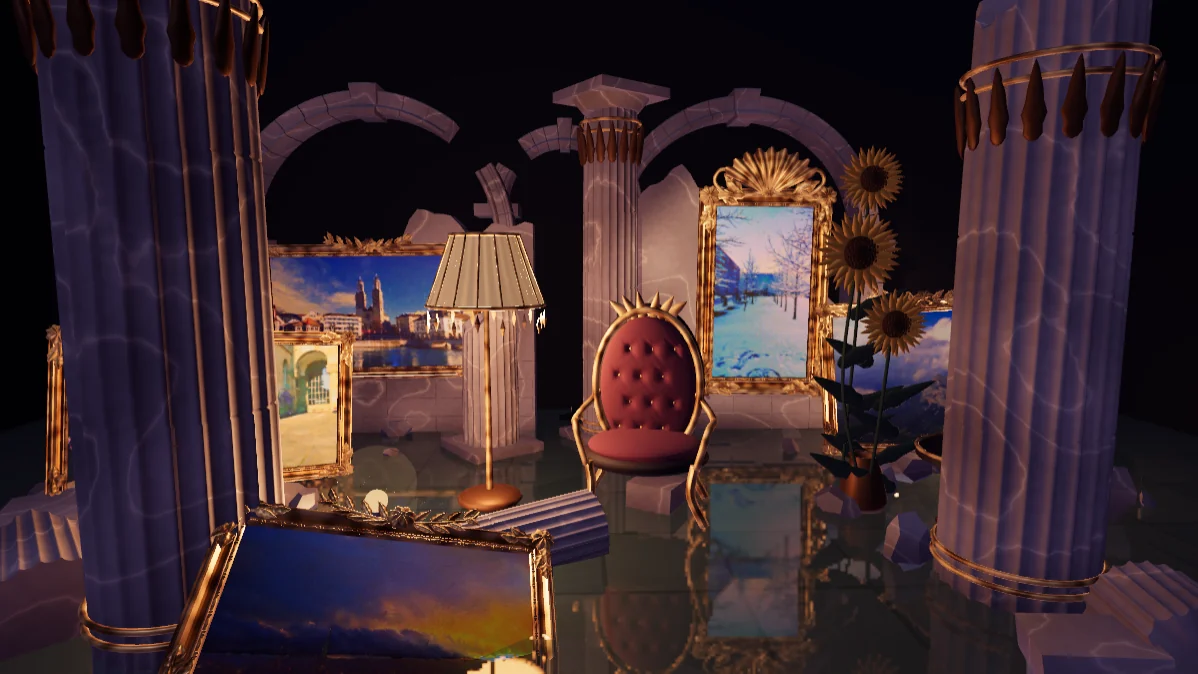
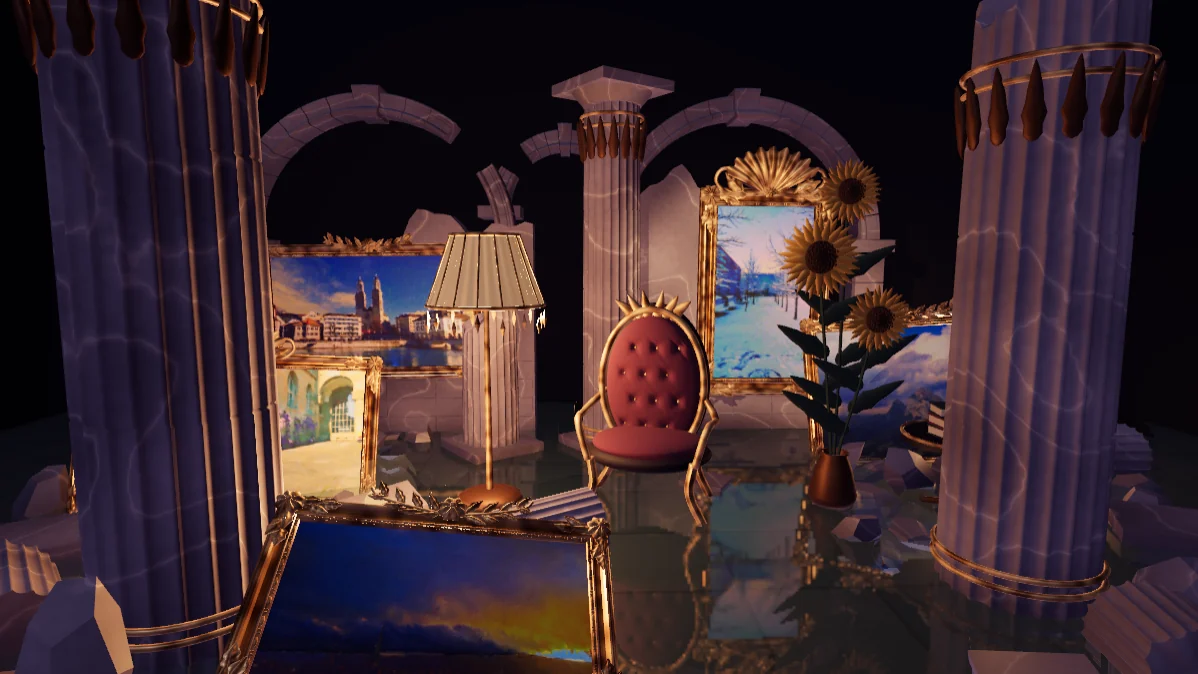
Separate intersecting objects in the Painted Room

diff --git a/misc/museum/room/details.js b/misc/museum/room/details.js
@@ -267,7 +267,7 @@ export function pleatedShade(){
   return g;
 }
 
-export function dressRoom({scene,stoneMat,frameMat:gold,woodMat:wood}){
+export function dressRoom({scene,stoneMat,frameMat:gold,woodMat:wood,floorY}){
   const c=new Carving();
   const bronze=new THREE.MeshStandardNodeMaterial({color:0x694832,metalness:0.7,roughness:0.48});
   const velvet=new THREE.MeshStandardNodeMaterial({color:0x643340,roughness:0.92});
@@ -278,7 +278,7 @@ export function dressRoom({scene,stoneMat,frameMat:gold,woodMat:wood}){
 
   // Layered arcades recede behind the surviving wall fragments. Every voussoir is
   // a closed, bevelled wedge; a missing block is a deliberate break in the arch.
-  for(const [x,z,r,spring,missing] of [[-4.1,-7.85,2.3,3.5,3],[2.9,-8.0,2.3,3.5,-1],[-0.5,-8.5,1.15,4.2,12]]){
+  for(const [x,z,r,spring,missing] of [[-4.1,-8.00,2.3,3.5,3],[2.9,-8.0,2.3,3.5,-1],[-0.5,-8.99,1.15,4.2,12]]){
     for(let i=0;i<17;i++){
       if(i===missing||i===missing+1&&missing>=0) continue;
       const key=i===8, inset=0.004;
@@ -302,7 +302,7 @@ export function dressRoom({scene,stoneMat,frameMat:gold,woodMat:wood}){
     }
   }
   // Bronze collars and an acanthus crown give the foreground shafts scale.
-  for(const [x,z,r,h] of [[-3.60,-0.70,0.74,5.0],[3.95,-1.10,0.68,4.6],[0.30,-6.40,0.48,5.18]]){
+  for(const [x,z,r,h] of [[-3.60,-0.70,0.74,5.0],[3.95,-1.10,0.68,4.6],[0.30,-5.96,0.48,5.18]]){
     for(const y of [0.22,0.35,h,h+0.18]) c.add(new THREE.TorusGeometry(r*1.035,0.028,6,48),gold,[x,y,z],[Math.PI/2,0,0]);
     for(let i=0;i<16;i++){
       const a=i/16*Math.PI*2;
@@ -312,17 +312,39 @@ export function dressRoom({scene,stoneMat,frameMat:gold,woodMat:wood}){
 
   // Fallen cornice stones and smaller chips; deterministic placement, concentrated
   // at the feet of the ruins so the central water still has room for reflections.
+  // The loose chips have fixed sites between the columns and exhibits. Seat
+  // each stone on its lowest rotated vertex on the floor beneath the water.
+  const chipSites=[
+    [-4.59,-4.17],[5.93,-0.10],[-5.27,0.44],[5.76,-6.51],[-3.28,-5.54],[6.26,-5.97],
+    [-6.83,-6.09],[3.55,-4.48],[-5.18,-6.25],[6.32,-6.63],[-3.81,-5.85],[5.03,-6.41],
+    [-5.32,-1.60],[4.87,-3.41],[-3.73,-3.05],[6.88,-0.40],[-3.98,-4.58],[7.71,-1.15],
+    [-7.18,-2.58],[5.21,-0.68],[-7.32,-1.81],[3.62,-2.31],[-4.89,-2.51],[5.35,-5.55],
+    [-4.47,-6.09],[3.08,-2.75],[-3.74,0.49],[2.97,-1.63],[-3.60,-1.86],[5.83,-5.76],
+    [-4.69,-1.29],[7.51,-3.72],[-6.39,-3.40],[4.30,-5.99],[-4.49,0.19],[4.90,-5.45],
+    [-3.03,-6.34],[7.03,-2.98],[-6.16,-1.06],[5.16,0.07],[-4.34,-2.08],[5.00,-2.34],
+    [-4.88,-5.50],[3.68,-2.99],[-6.94,-1.16],[4.13,-4.66],[-6.21,-6.27],[5.45,-2.74],
+    [-6.15,-3.75],[5.15,-4.26],[-5.84,-3.48],[6.55,0.05],[-4.19,-5.22],[6.48,-0.71],
+    [-3.78,-6.51],[2.92,-2.29],[-3.37,-3.41],[4.41,-3.93],[-4.38,-2.86],[7.10,-0.67],
+    [-6.11,-0.16],[3.60,-3.66],[-3.74,-2.60],[3.25,-5.51],[-7.06,-3.37]
+  ];
   let seed=917;
   const rand=()=>{seed=(Math.imul(seed,1664525)+1013904223)>>>0;return seed/4294967296;};
-  for(let i=0;i<65;i++){
-    const side=i%2?1:-1, x=side*(2.9+rand()*4.3),z=-6.9+rand()*6.5;
-    const size=0.08+rand()*0.30;
-    c.add(new THREE.DodecahedronGeometry(size,0),stoneMat,[x,-0.035+size*0.4,z],
-      [rand(),rand()*6,rand()],[1+rand(),0.65,1]);
+  for(const [x,z] of chipSites){
+    const stone=new THREE.DodecahedronGeometry(0.08+rand()*0.30,0);
+    const rotation=new THREE.Euler(rand(),rand()*6,rand());
+    stone.scale(1+rand(),0.65,1);
+    stone.applyMatrix4(new THREE.Matrix4().makeRotationFromEuler(rotation));
+    stone.computeBoundingBox();
+    c.add(stone,stoneMat,[x,floorY-stone.boundingBox.min.y,z]);
   }
-  for(const [x,z,ry] of [[-5.8,-2.6,0.4],[5.8,-3.2,-0.6]]){
-    for(let j=0;j<3;j++) c.add(box,stoneMat,[x,0.1+j*0.13,z],
-      [0.08,ry,0.05],[1.5+j*0.12,0.16,0.6+j*0.13]);
+  for(const [x,z,ry] of [[-6.03,-2.17,0.29],[6.73,-1.90,-0.48]]){
+    const tilt=new THREE.Euler(0.08,ry,0.05);
+    const up=new THREE.Vector3(0,1,0).applyEuler(tilt);
+    for(let j=0;j<3;j++){
+      const lift=j*0.16;
+      c.add(box,stoneMat,[x+up.x*lift,-0.19+up.y*lift,z+up.z*lift],
+        [tilt.x,tilt.y,tilt.z],[1.5+j*0.12,0.16,0.6+j*0.13]);
+    }
   }
 
   // An empty salon chair, slightly off-axis beneath the paintings: plum velvet,
@@ -347,7 +369,7 @@ export function dressRoom({scene,stoneMat,frameMat:gold,woodMat:wood}){
     const z=0.14+0.16*Math.sqrt(1-(x/0.61)**2-(y/0.90)**2)-tuftDepth(x,y);
     cc.add(sphere,gold,[x,1.52+y,z+0.014],[0,0,0],[0.021,0.021,0.012]);
   }
-  chair.add(cc.finish());chair.position.set(0.65,0,-3.55);chair.rotation.y=-0.20;scene.add(chair);
+  chair.add(cc.finish());chair.position.set(0.74,0,-3.65);chair.rotation.y=-0.29;scene.add(chair);
 
   // A tall shaded lamp with ribs and crystal fringe. The practical casts warm
   // light onto the chair and flowers; the visitor's overhead beam remains aimable.
@@ -369,12 +391,20 @@ export function dressRoom({scene,stoneMat,frameMat:gold,woodMat:wood}){
 
   // Sunflowers lean into the light on the right: two irregular petal courses,
   // raised seed heads and broad green leaves, with all faces modelled.
-  for(const [x,z,height,r,lean] of [[3.10,-3.0,3.2,0.39,-0.22],[3.55,-2.95,2.35,0.32,0.22],[3.35,-3.3,4.10,0.31,0.20]]){
-    c.add(closedTube([[x-lean,0.1,z],[x-0.15,height*0.5,z+0.1],[x,height,z]],0.022,22),green);
+  const vaseX=3.02,vaseZ=-3.24;
+  for(const [dx,dz,height,r] of [[-0.32,0.05,3.15,0.39],[0.42,0.10,2.39,0.32],[0.10,-0.15,3.96,0.31]]){
+    const x=vaseX+dx,z=vaseZ+dz;
+    // Keep each stalk inside the narrow mouth, then let it bend towards its flower.
+    const stemPoints=[[vaseX+dx*0.10,0.55,vaseZ+dz*0.10],[vaseX+dx*0.16,0.75,vaseZ+dz*0.16],
+      [vaseX+dx*0.55,height*0.60,vaseZ+dz*0.55],[x,height,z]];
+    const stem=new THREE.CatmullRomCurve3(stemPoints.map(p=>new THREE.Vector3(...p)));
+    c.add(closedTube(stemPoints,0.022,22),green);
     for(let j=0;j<4;j++){
-      const sx=j%2?1:-1;
-      c.add(leaf,green,[x+sx*0.18,height*(0.18+j*0.15),z],
-        [0.25,0,-sx*1.05],[0.16,0.40,0.10]);
+      const sx=j%2?1:-1, join=stem.getPointAt(0.22+j*0.16);
+      const tilt=-sx*1.05;
+      // The leaf mesh is centred. Plant its lower tip on the curved stalk.
+      c.add(leaf,green,[join.x-0.34*Math.sin(tilt),join.y+0.34*Math.cos(tilt),join.z],
+        [0,0,tilt],[0.16,0.40,0.10]);
     }
     c.add(sphere,seeds,[x,height,z+0.04],[0,0,0],[r*0.54,r*0.54,0.12]);
     for(let ring=0;ring<2;ring++) for(let j=0;j<17;j++){
@@ -389,10 +419,10 @@ export function dressRoom({scene,stoneMat,frameMat:gold,woodMat:wood}){
     }
   }
   const vaseSection=[[0,0],[0.25,0],[0.30,0.15],[0.23,0.48],[0.16,0.66],[0.19,0.70],[0.15,0.70],[0.12,0.61],[0.19,0.45],[0.25,0.15],[0,0.06]];
-  c.add(new THREE.LatheGeometry(vaseSection.map(p=>new THREE.Vector2(...p)),32),bronze,[3.35,-0.03,-3.1]);
+  c.add(new THREE.LatheGeometry(vaseSection.map(p=>new THREE.Vector2(...p)),32),bronze,[vaseX,-0.03,vaseZ]);
 
   // Books and a cup survive on a low round table near the water.
-  const tx=4.3,tz=-2.1;
+  const tx=4.46,tz=-2.76;
   c.add(new THREE.CylinderGeometry(0.72,0.74,0.09,40),wood,[tx,0.96,tz]);
   c.add(new THREE.TorusGeometry(0.73,0.023,8,40),gold,[tx,1.005,tz],[Math.PI/2,0,0]);
   c.add(new THREE.CylinderGeometry(0.055,0.09,0.95,12),bronze,[tx,0.46,tz]);

diff --git a/misc/museum/room/index.html b/misc/museum/room/index.html
@@ -240,15 +240,15 @@ const reduced=matchMedia('(prefers-reduced-motion: reduce)');
 // The catalogue supplies the titles used by the live wall label.
 const WORKS=[
   // Two still hanging on what is left of the walls...
-  {slug:'grossmunster', crest:'spray', ar:1.7778, h:1.95, pos:[-3.85,2.20,-6.79], rot:[0,0.012,0.012]},
-  {slug:'snow', crest:'shell',         ar:0.5625, h:3.05, pos:[ 3.05,2.52,-6.80], rot:[0,-0.03,-0.008]},
-  // ...one propped on a fallen drum and leaning back against a column...
-  {slug:'ridge', crest:'spray',        ar:1.3333, h:2.05, pos:[ 5.15,1.30,-4.95], rot:[-0.15,-0.55,0.03]},
+  {slug:'grossmunster', crest:'spray', ar:1.7778, h:1.95, pos:[-3.85,2.20,-6.78], rot:[0,0,0.012]},
+  {slug:'snow', crest:'shell',         ar:0.5625, h:3.05, pos:[ 3.05,2.52,-6.735], rot:[0,0,-0.008]},
+  // ...one leaning back beside a fallen drum...
+  {slug:'ridge', crest:'spray',        ar:1.3333, h:2.05, pos:[4.99,1.053,-5.12], rot:[-0.200,-0.380,0.035]},
   // ...one standing in the water against the left ruin...
-  {slug:'wisteria', crest:'shell',     ar:1.7778, h:1.72, pos:[-5.05,1.15,-3.85], rot:[-0.12,0.62,-0.02]},
+  {slug:'wisteria', crest:'shell',     ar:1.7778, h:1.72, pos:[-4.70,0.872,-3.65], rot:[-0.180,0.380,-0.035]},
   // ...and one that has gone over, its lower edge under the surface. The reference painting has
   // exactly this: an ornate frame half in the flood, catching the lamp along its top moulding.
-  {slug:'storm', crest:'spray',        ar:1.7778, h:1.35, pos:[-1.80,0.33,-0.15], rot:[-1.06,0.34,0.10]},
+  {slug:'storm', crest:'spray',        ar:1.7778, h:1.35, pos:[-1.36,0.426,-0.04], rot:[-1.000,0.220,0.035]},
 ];
 
 // ---------------------------------------------------------------------------------------------
@@ -258,7 +258,7 @@ const WORKS=[
 // the other mirrors a scene -- so there is a box. But it is large, unlit and nearly black: what the
 // visitor reads as "the room" is the ruin standing in the water, and everything past it is meant to
 // fall away into the dark, which is how the reference painting handles its own background.
-const ROOM_W=11.0, ROOM_D=[-9.0,5.0], ROOM_H=9.0;
+const ROOM_W=11.0, ROOM_D=[-9.65,5.0], ROOM_H=9.0;
 const WATER_Y=0, WATER_DEPTH=0.35, FLOOR_Y=WATER_Y-WATER_DEPTH;
 // ---------------------------------------------------------------------------------------------
 // THE LAMP. One light, as asked for, and it is a SPOTLIGHT rather than a bulb for three reasons
@@ -315,7 +315,7 @@ const LANT_COL=0xffb877;
 // the room -- which is the only reason there is anything for the volumetric pass to integrate. So
 // clicking sets the target, not the position. The opening aim is the centre picture, because a room
 // that opens with nothing lit is a room that opens black.
-const HOME_AIM=new THREE.Vector3(3.05, 2.52, -6.80);   // the tall picture on the right-hand wall fragment
+const HOME_AIM=new THREE.Vector3(3.05, 2.52, -6.735);   // the tall picture on the right-hand wall fragment
 const AIM_S=2.6;            // how fast the beam swings to a new aim, in units of "per second, e-fold"
 const WANDER=0.085;         // how far the aim breathes around where it was put, in metres
 const WANDER_S=0.085;       // and how slowly. A hung lamp breathes; it does not patrol.
@@ -573,10 +573,10 @@ const COLUMNS=[
   [-3.60,-0.70, 0.74, 6.75, 1.7, 0.50, false, false],   // 37°
   [ 3.95,-1.10, 0.68, 5.80, 5.3, 0.70, false, false],   // 38°
   // …then the colonnade proper, receding and overlapping.
-  [-5.60,-4.40, 0.56, 4.40, 4.1, 0.80, false, true ],   // 34°
+  [-5.60,-4.72, 0.56, 4.40, 4.1, 0.80, false, true ],   // 34°
   [-1.70,-5.80, 0.46, 2.15, 2.2, 1.00, false, true ],   // 10°
-  [ 0.30,-6.40, 0.48, 5.40, 0.6, 0.15, true,  true ],   // 11°  the one that survived, with its capital
-  [ 5.90,-3.70, 0.60, 2.30, 2.9, 1.00, false, false],   // 37°
+  [ 0.30,-5.96, 0.48, 5.40, 0.6, 0.15, true,  true ],   // 11°  the one that survived, with its capital
+  [ 6.14,-3.58, 0.60, 2.30, 2.9, 1.00, false, false],   // 37°
   [ 7.30,-6.60, 0.48, 3.80, 3.4, 0.80, false, true ],   // 35°
 ];
 for(const [x,z,R,H,seed,brk,cap,pl] of COLUMNS){
@@ -595,10 +595,10 @@ for(const [x,z,R,H,seed,brk,cap,pl] of COLUMNS){
 // so the surface cuts them, which is the reference painting's whole trick for selling depth.
 const FALLEN=[
   // [x, y, z, rotX, rotY, rotZ, radius, length, seed, break tilt]
-  [-0.10,0.20,-2.15, 0.06, 0.42, 1.62, 0.40, 2.65, 2.2, 0.65],
-  [-4.55,0.30,-0.35, 0.10,-0.85, 1.53, 0.46, 0.85, 6.1, 0.90],
-  [ 4.35,0.26,-0.10,-0.05, 1.30, 1.58, 0.44, 0.80, 3.8, 0.55],
-  [ 7.10,0.28,-4.40, 0.04, 0.25, 1.49, 0.48, 0.95, 1.1, 0.80],
+  [-0.10,0.223,-2.15, 0.06, 0.42, 1.62, 0.40, 2.65, 2.2, 0.65],
+  [-4.83,0.106,-0.20, 0.10,-0.85, 1.53, 0.46, 0.85, 6.1, 0.90],
+  [ 4.35,0.090,-0.10,-0.05, 1.30, 1.58, 0.44, 0.80, 3.8, 0.55],
+  [ 8.14,0.128,-4.74, 0.04, 0.25, 1.49, 0.48, 0.95, 1.1, 0.80],
 ];
 for(const [x,y,z,rx,ry,rz,R,L,seed,brk] of FALLEN){
   const m=new THREE.Mesh(flutedColumn(R,L,seed,brk), stoneMat);
@@ -662,11 +662,11 @@ for(const [x,z,w,h,d,seed,tilt] of [[-4.15,-7.20,6.2,4.85,0.55,1.3, 0.55],
 // them reads as a diagram of a colonnade. Cheap boxes, because at this scale and this light nobody
 // is reading their silhouette -- what they contribute is broken edges catching the lamp.
 for(const [x,y,z,rx,ry,rz,a,b,c] of [
-    [-2.70,0.16,-1.05, 0.10, 0.55, 0.06, 0.95,0.52,0.78],
-    [ 3.55,0.13, 0.35,-0.06,-0.35, 0.13, 0.78,0.44,0.66],
-    [ 0.75,0.11,-3.30, 0.05, 1.05,-0.09, 0.62,0.38,0.60],
-    [-6.30,0.14,-5.35, 0.08,-0.65, 0.05, 0.84,0.46,0.70],
-    [ 5.05,0.10,-4.70,-0.04, 0.85, 0.07, 0.58,0.34,0.52]]){
+    [-2.63,-0.006,-2.76, 0.10, 0.55, 0.06, 0.95,0.52,0.78],
+    [ 3.05,-0.056, 0.55,-0.06,-0.35, 0.13, 0.78,0.44,0.66],
+    [ 1.54,-0.138,-4.05, 0.05, 1.05,-0.09, 0.62,0.38,0.60],
+    [-6.98,-0.098,-5.43, 0.08,-0.65, 0.05, 0.84,0.46,0.70],
+    [ 6.94,-0.162,-5.38,-0.04, 0.85, 0.07, 0.58,0.34,0.52]]){
   const m=new THREE.Mesh(new THREE.BoxGeometry(a,b,c), stoneMat);
   m.position.set(x,y,z); m.rotation.set(rx,ry,rz);
   m.castShadow=true; m.receiveShadow=true; scene.add(m);
@@ -839,7 +839,7 @@ for(const [x,y,z,intensity] of LANTERNS){
 }
 
 // Closed architectural and decorative meshes share the room's materials and lighting.
-const dressing=dressRoom({scene,stoneMat,frameMat,woodMat});
+const dressing=dressRoom({scene,stoneMat,frameMat,woodMat,floorY:FLOOR_Y});
 noBake.push(...dressing.glows);
 
 // The sky, built rather than fetched: an equirectangular strip 128x64, prefiltered by PMREM into

diff --git a/tools/check_room.py b/tools/check_room.py
@@ -21,7 +21,7 @@ except ImportError:
         os.execv(str(PW_PY), [str(PW_PY), __file__] + sys.argv[1:])
     raise
 
-CHECK = r"""() => {
+CHECK = r"""async () => {
   const {THREE,flutedColumn,ruinWall,frameSweep,MOULDING,closedTube,archStone,tuftedBack,pleatedShade,shellCrest,acanthusLeaf,cornerRosette}=window.roomGeometry;
   function audit(g,label){
     const p=g.attributes.position, ids=g.index?Array.from(g.index.array):Array.from({length:p.count},(_,i)=>i);
@@ -57,6 +57,34 @@ CHECK = r"""() => {
   results.push(audit(archStone(2.3,0.54,0.8,0.97,0.77),'arch keystone'));
   results.push(audit(tuftedBack(),'tufted upholstery'));
   results.push(audit(pleatedShade(),'pleated lampshade'));
+  // Check the installed paintings too. Transform nearby solid triangles into
+  // canvas coordinates so an angled shaft or wall cannot cut through the image.
+  const {scene,works,WORKS,hangWork,volMesh,water}=window.roomGeometry;
+  await Promise.all(WORKS.map(hangWork));
+  scene.updateMatrixWorld(true);
+  for(const {mesh,slug} of works){
+    const {width,height}=mesh.geometry.parameters;
+    // Leave the outer millimetre for the mitred lip that holds the canvas.
+    const inset=0.001;
+    const half=new THREE.Vector3(width/2-inset,height/2-inset,inset);
+    const image=new THREE.Box3(half.clone().negate(),half);
+    const worldToImage=mesh.matrixWorld.clone().invert();
+    const tri=new THREE.Triangle();
+    scene.traverse(o=>{
+      if(!o.isMesh || o===mesh || o===water || o===volMesh || o.material.transparent || o.isInstancedMesh) return;
+      const g=o.geometry, transform=new THREE.Matrix4().multiplyMatrices(worldToImage,o.matrixWorld);
+      if(!g.boundingBox) g.computeBoundingBox();
+      if(!g.boundingBox.clone().applyMatrix4(transform).intersectsBox(image)) return;
+      const pos=g.attributes.position, index=g.index, count=index?index.count:pos.count;
+      for(let i=0;i<count;i+=3){
+        tri.a.fromBufferAttribute(pos,index?index.getX(i):i).applyMatrix4(transform);
+        tri.b.fromBufferAttribute(pos,index?index.getX(i+1):i+1).applyMatrix4(transform);
+        tri.c.fromBufferAttribute(pos,index?index.getX(i+2):i+2).applyMatrix4(transform);
+        if(image.intersectsTriangle(tri)) throw Error(slug+': '+o.geometry.type+' crosses the painted surface at '+tri.getMidpoint(new THREE.Vector3()).toArray().join(', '));
+      }
+    });
+    results.push(slug+': painted surface clear');
+  }
   return results;
 }"""
 
@@ -68,7 +96,7 @@ class Quiet(http.server.SimpleHTTPRequestHandler):
 def main():
     src = (ROOT / 'misc/museum/room/index.html').read_text()
     src = src.replace("import {carvedFrame, dressRoom}", "import {carvedFrame, dressRoom, closedTube, archStone, tuftedBack, pleatedShade, shellCrest, acanthusLeaf, cornerRosette}")
-    src = src.replace('\nboot();', '\nwindow.roomGeometry={THREE,flutedColumn,ruinWall,frameSweep,MOULDING,closedTube,archStone,tuftedBack,pleatedShade,shellCrest,acanthusLeaf,cornerRosette};')
+    src = src.replace('\nboot();', '\nwindow.roomGeometry={scene,works,WORKS,hangWork,volMesh,water,THREE,flutedColumn,ruinWall,frameSweep,MOULDING,closedTube,archStone,tuftedBack,pleatedShade,shellCrest,acanthusLeaf,cornerRosette};')
     server = http.server.ThreadingHTTPServer(('127.0.0.1', 0), functools.partial(Quiet, directory=str(ROOT)))
     threading.Thread(target=server.serve_forever, daemon=True).start()
     try:
